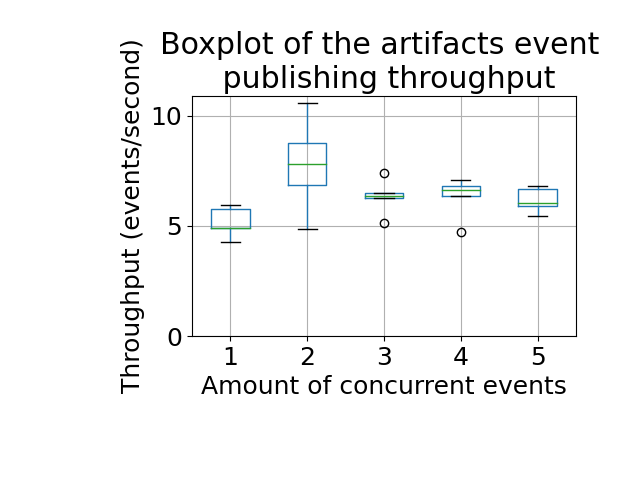
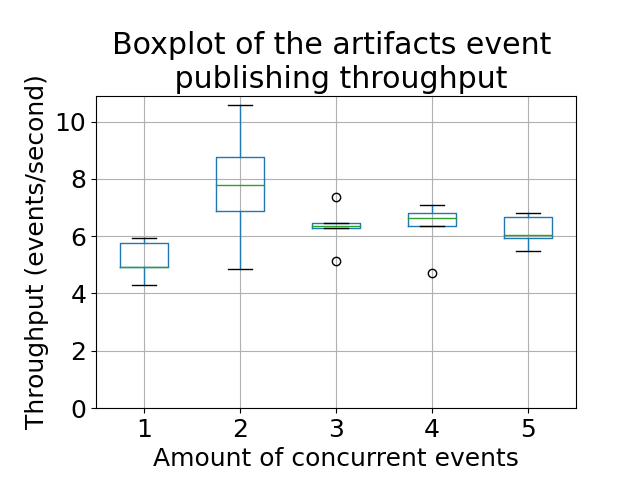
how does it look

diff --git a/caseStudies/visualizePerformanceTestResults.py b/caseStudies/visualizePerformanceTestResults.py
@@ -13,7 +13,7 @@ def main(file_path):
     plt.xlabel("Amount of concurrent events")
     plt.ylabel("Throughput (events/second)")
     plt.ylim(ymin=0)
-    plt.subplots_adjust(left=0.3, right=0.9, bottom=0.3, top=0.8)
+    plt.subplots_adjust(left=0.15, right=0.9, bottom=0.15, top=0.8)
     plt.savefig(file_path[:-4]+"Throughput.png")
 
     df.boxplot(column="latency", by="parallel events")
